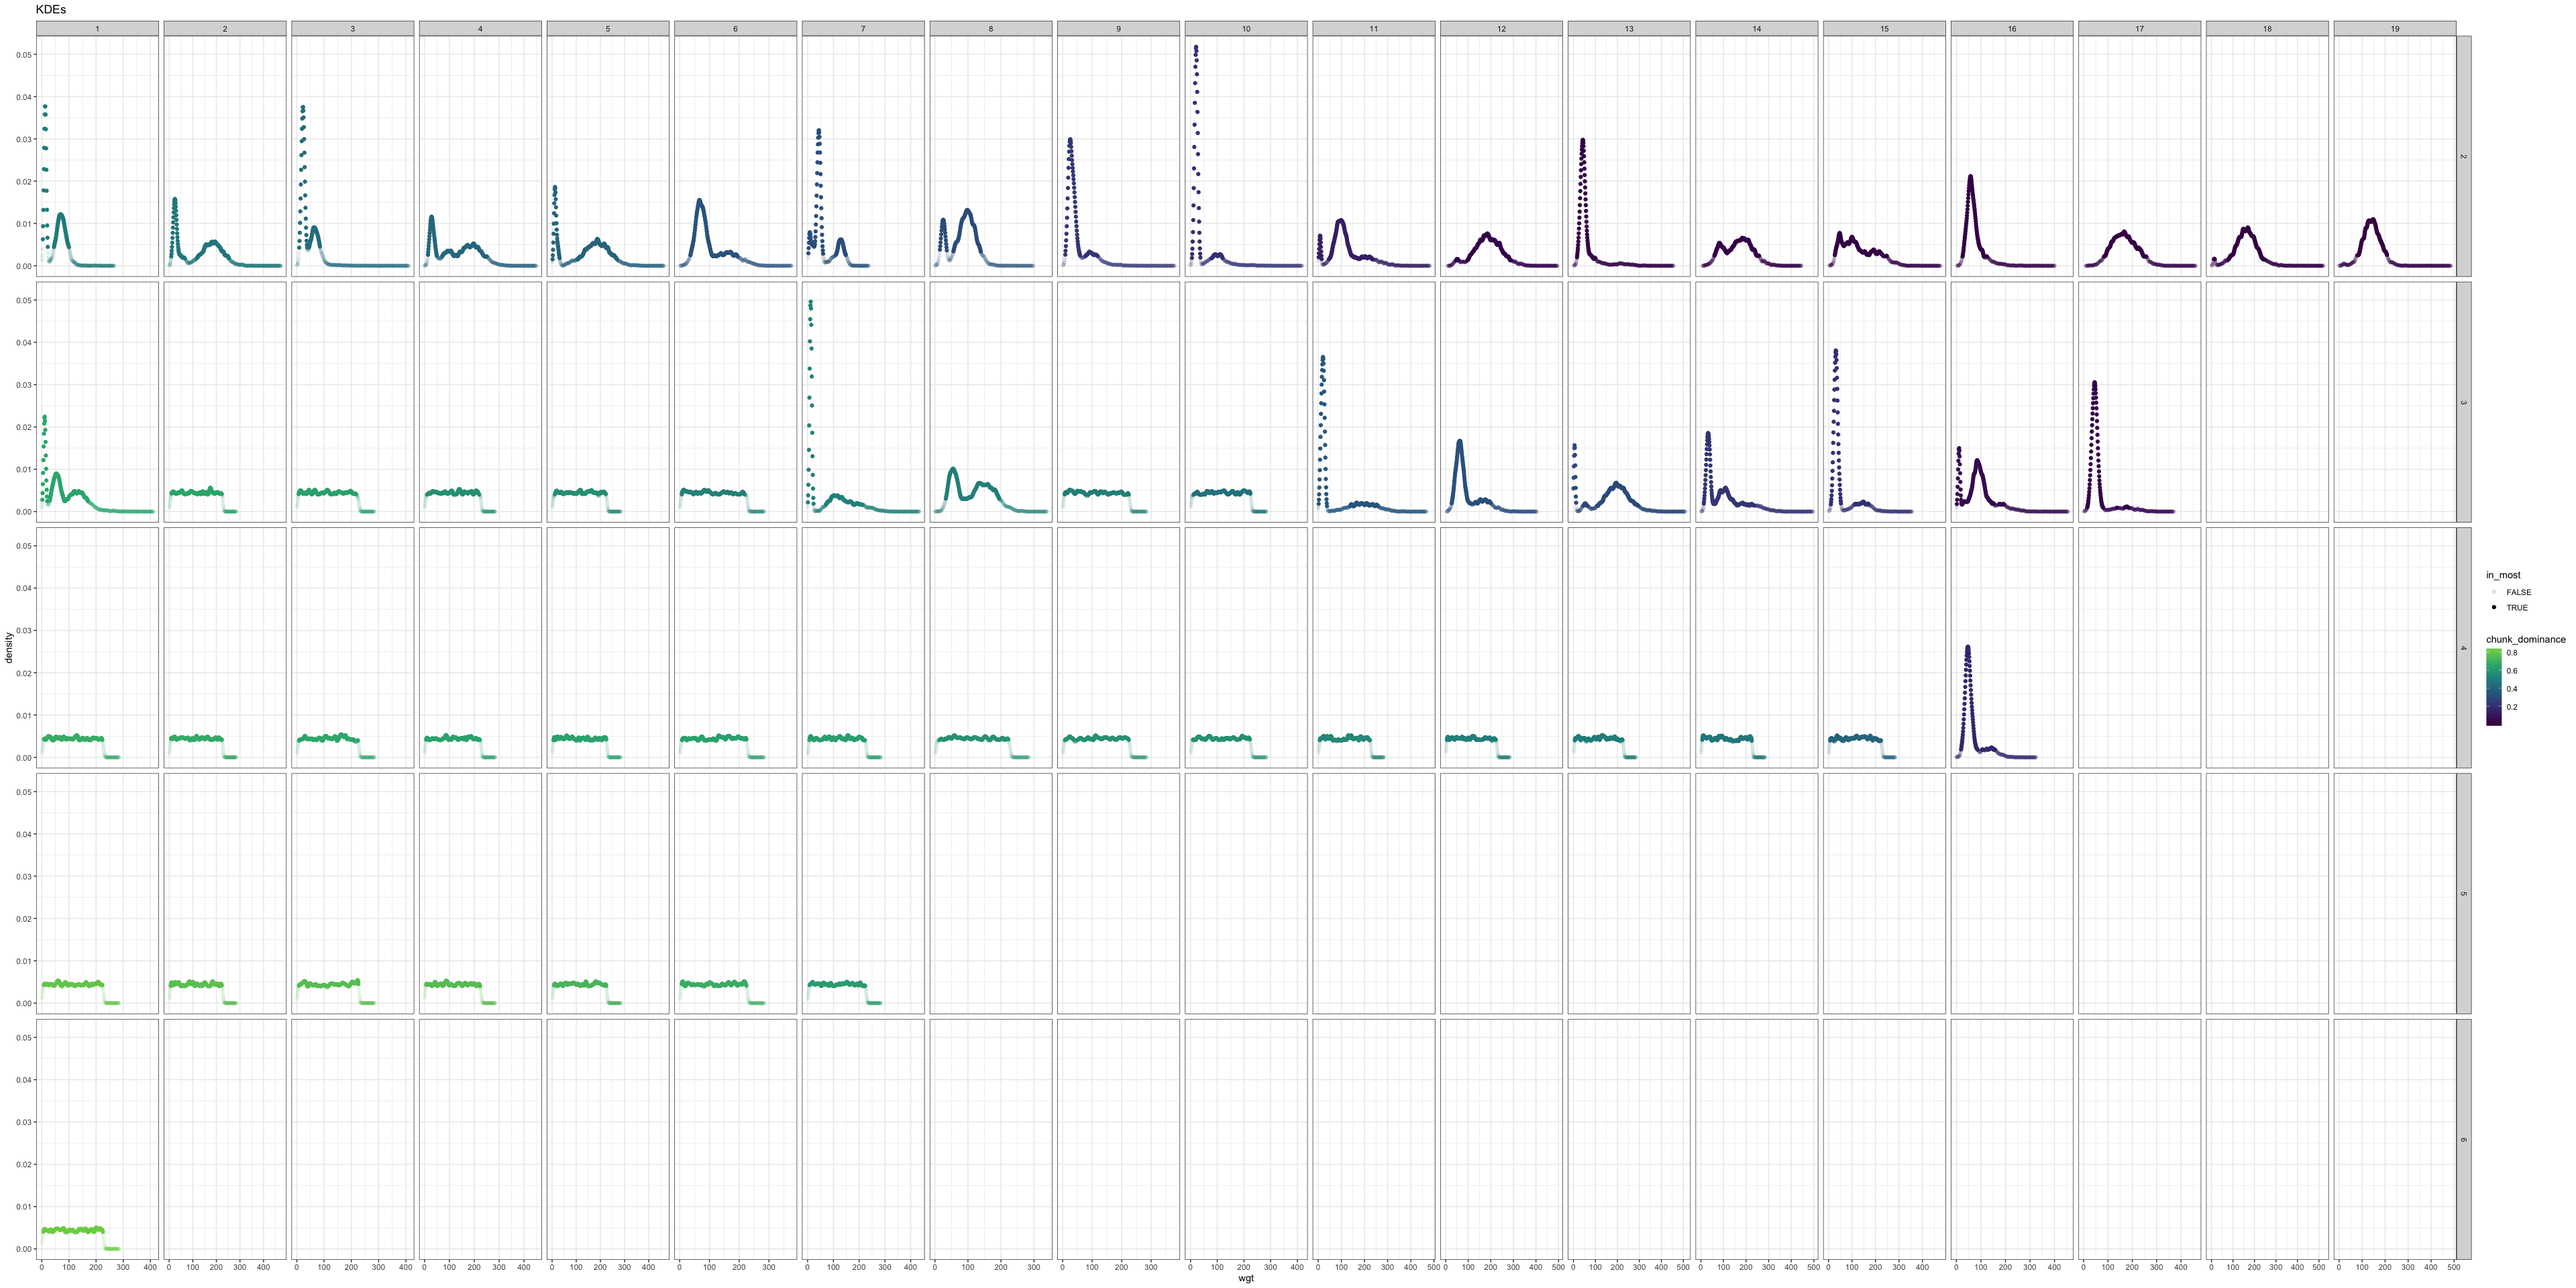
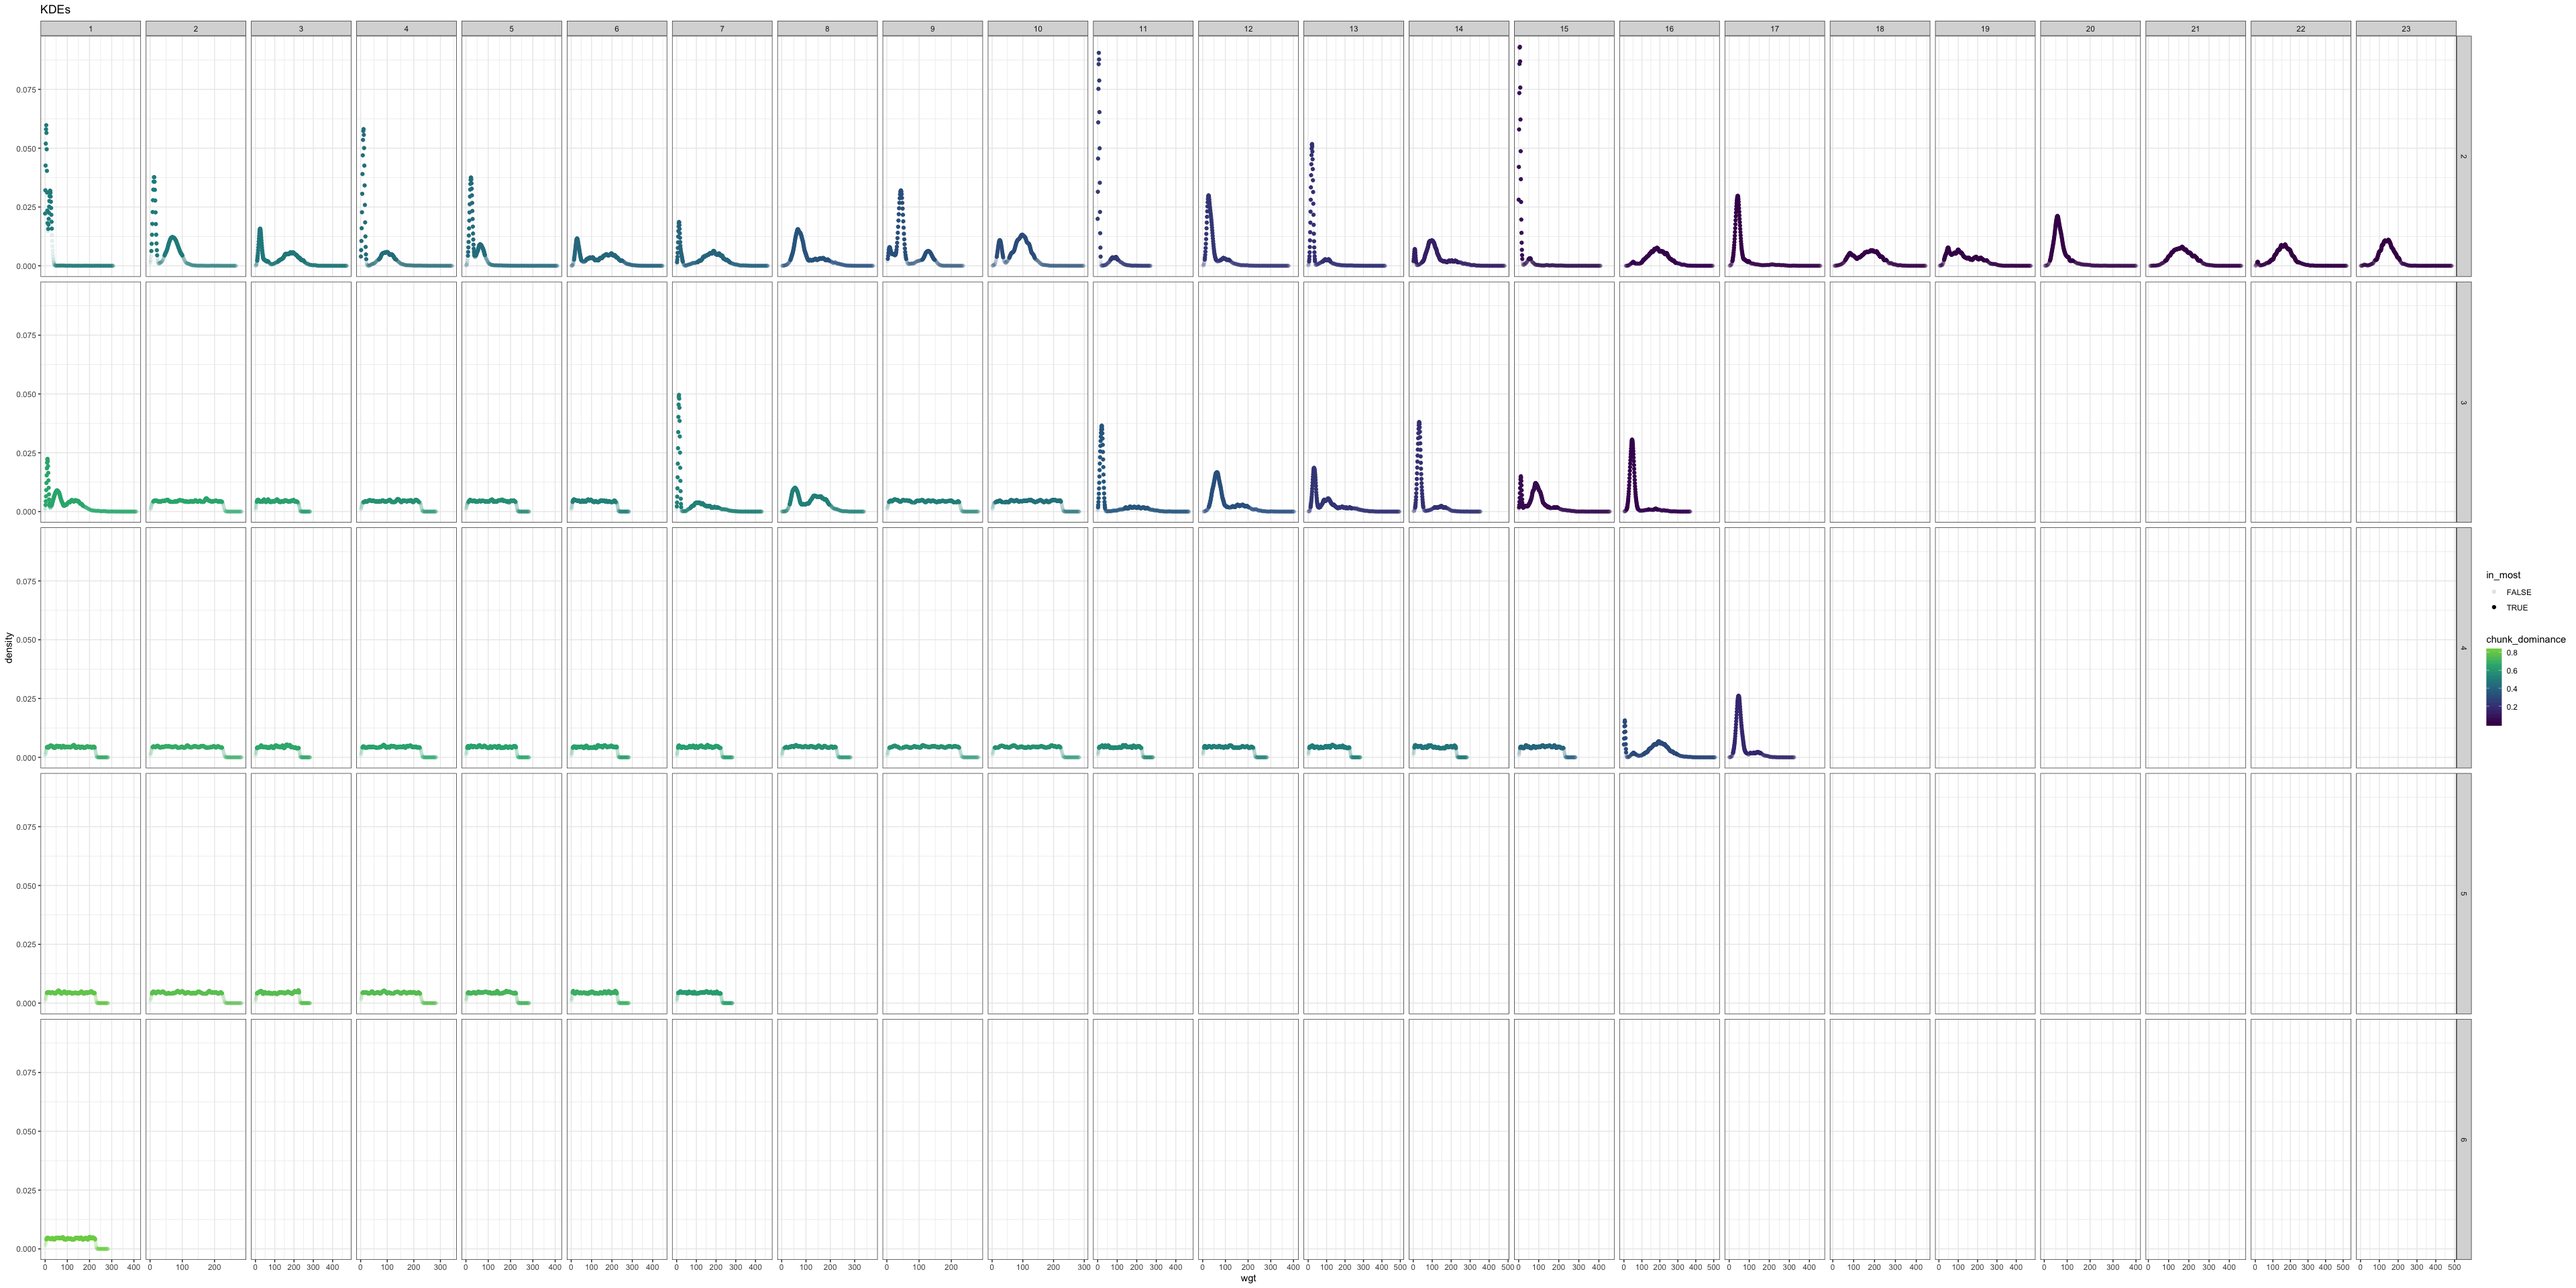
fix bug in chunks

diff --git a/analysis/turns_etc.md b/analysis/turns_etc.md
@@ -124,8 +124,12 @@ summarize_chunks <- function(in_most_df) {
   nchunks <- 0
   in_most_df$chunk <- NA
   
-  for(i in 2:nrow(in_most_df)) {
-    if(all(in_most_df$in_most[i], in_most_df$in_most[i - 1] == FALSE)) {
+  for(i in 1:nrow(in_most_df)) {
+    if(i == 1) {
+      if(in_most_df$in_most[i]) {
+        nchunks <- nchunks + 1
+      }
+    } else if(all(in_most_df$in_most[i], in_most_df$in_most[i - 1] == FALSE)) {
       nchunks <- nchunks + 1
     }
     
